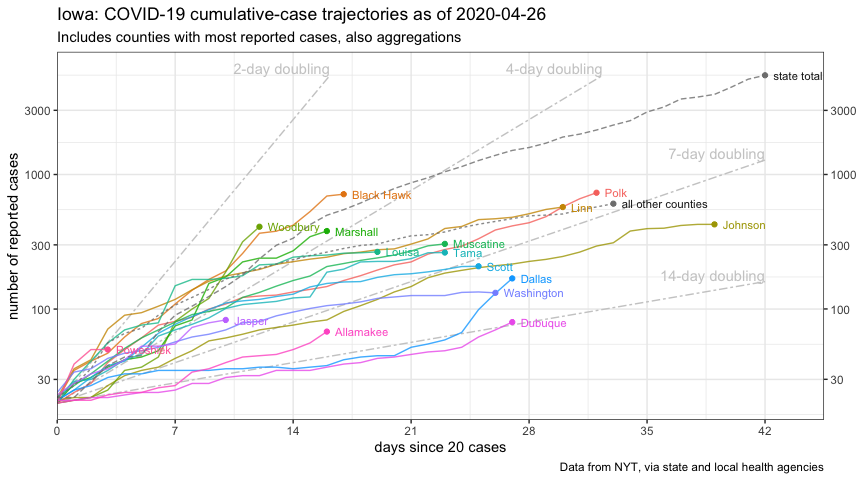
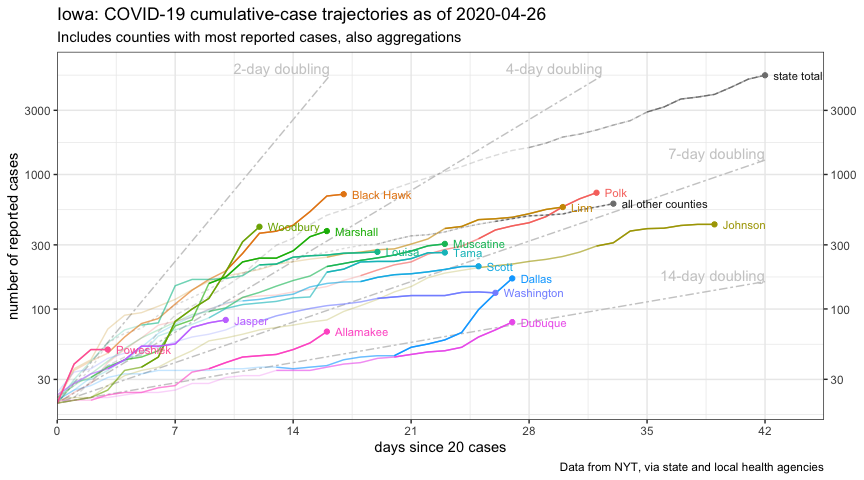
adjust ft-style charts

diff --git a/ijlyttle/03-Plots.md b/ijlyttle/03-Plots.md
@@ -1,7 +1,7 @@
 COVID-19 Iowa
 ================
 Ian Lyttle
-2020-04-26
+2020-04-27
 
 ``` r
 library("fs")
@@ -417,7 +417,20 @@ plot_cases_ft <-
     nudge_y = 0.05,
     color = "grey80"
   ) +
-  geom_line(aes(color = county, linetype = aggregation), alpha = 0.8) +
+  geom_line(
+    aes(color = county, linetype = aggregation), 
+    alpha = 0.25
+  ) +  
+  geom_line(
+    data = . %>% filter(date >= max(date) - 14),
+    aes(color = county, linetype = aggregation), 
+    alpha = 0.5
+  ) +  
+  geom_line(
+    data = . %>% filter(date >= max(date) - 7),
+    aes(color = county, linetype = aggregation), 
+    alpha = 1
+  ) +
   geom_point(
     data = . %>% filter(date == max(date)),
     aes(color = county),
@@ -476,7 +489,20 @@ plot_new_cases_week_avg_ft <-
     data_combined_index %>% filter(index_new_cases >= 0),
     aes(index_new_cases, new_cases_week_avg)
   ) +
-  geom_line(aes(color = county, linetype = aggregation)) +
+  geom_line(
+    aes(color = county, linetype = aggregation), 
+    alpha = 0.25
+  ) +  
+  geom_line(
+    data = . %>% filter(date >= max(date) - 14),
+    aes(color = county, linetype = aggregation), 
+    alpha = 0.5
+  ) +  
+  geom_line(
+    data = . %>% filter(date >= max(date) - 7),
+    aes(color = county, linetype = aggregation), 
+    alpha = 1
+  ) +
   geom_point(
     data = . %>% filter(date == max(date)),
     aes(color = county),
